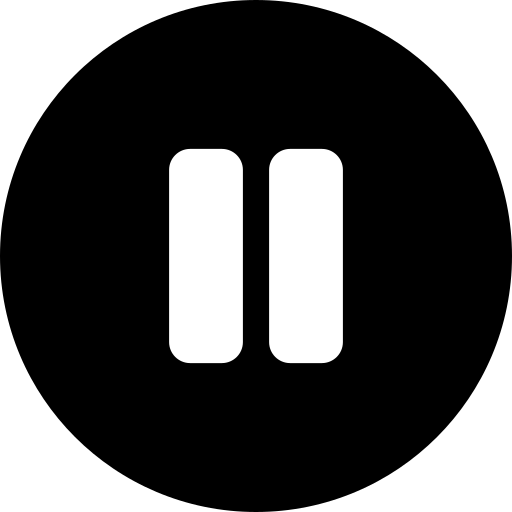
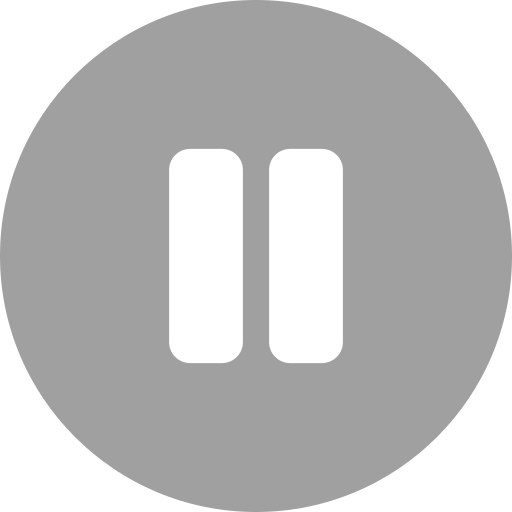
홈화면 배경동영상 재생/일시정지 버튼 색 반전

diff --git a/css/home.css b/css/home.css
@@ -76,15 +76,24 @@ body {
 }
 
 .header {
+    position: fixed;
+    opacity: 0.5;
     background-color: black;
     height: 10vh;
     width: 100%;
     display : flex;
     text-align: center;
-    justify-content: space-between;
+    justify-content: center;
     padding: 0;
     margin: 0;
     border-bottom: 2px solid grey;
+}
+
+.header-inner {
+    display: flex;
+    width: 80%;
+    align-items: center;
+    justify-content: space-between;
 }
 
 .header-logo {
@@ -93,15 +102,16 @@ body {
     align-items: center;
     justify-content: center;
     flex-basis: 30%;
-    flex-shrink: 0;
-    flex-grow: 0;
+    margin: 0;
+    padding: 0;
 }
 
 .header-logo img {
     width : 50px;
     height: auto;
     /* background-color: purple; */
-    margin-left: 10px;
+    margin: 0;
+    padding: 0;
 }
 
 .header-logo span {
@@ -113,23 +123,22 @@ body {
 
 .header-nav {
     /* background-color: blue; */
-    justify-content: center;
+    justify-content: flex-end;
     display: flex;
     flex-basis: 70%;
-    flex-shrink: 0;
-    flex-grow: 0;
+    
+    margin: 0;
+    padding: 0;
 }
 
 .nav-list {
     display: flex;
     justify-content: center;
     align-items: center;
-    /* background-color: white; */
+    /* background-color: grey; */
     list-style: none;
-    flex-basis: 70%;
-    flex-shrink: 0;
-    flex-grow: 0;
-    
+    margin: 0;
+    padding: 0;
 }
 
 .nav-item {
@@ -149,7 +158,7 @@ body {
 }
 
 .bg-video{
-    height: 90vh;
+    height: 100vh;
     width: 100%;
     display: flex;   
     justify-content: center;
@@ -166,6 +175,7 @@ body {
 
 .intro-overlay {
     position: absolute;
+    bottom: 10px;
     display: flex;
     flex-direction: column;
     justify-content: center;
@@ -283,11 +293,13 @@ body {
 
 .bg-video-pause {
     background-color: rgba(0, 0, 0, 0);
+
     border: none;
     position: relative;
     width: 40px;
     height: 40px;
-    top: 110px;
+
+    bottom: 10px;
     left: 670px;
 }
 

diff --git a/home.html b/home.html
@@ -9,19 +9,21 @@
 </head>
 <body>
     <header class="header">
-        <div class="header-logo">
-            <img src="/img/c7f5f2369a032c81-sticker.png">
-            <span>Walker's Devlog</span>
-        </div>
-        <div class="header-nav">
-            <ul class="nav-list">
-                <li class="nav-item"><a href="#">Home</li>
-                <li class="nav-item"><a href="#">About me</li>
-                <li class="nav-item"><a href="#">Skills</li>
-                <li class="nav-item"><a href="#">Projects</li>
-                <li class="nav-item"><a href="#">Career</li>
-                <li class="nav-item"><a href="#">Devlog</li>
-            </ul>
+        <div class="header-inner">
+            <div class="header-logo">
+                <img src="/img/c7f5f2369a032c81-sticker.png">
+                <span>Walker's Devlog</span>
+            </div>
+            <div class="header-nav">
+                <ul class="nav-list">
+                    <li class="nav-item"><a href="#">Home</li>
+                    <li class="nav-item"><a href="#">About me</li>
+                    <li class="nav-item"><a href="#">Skills</li>
+                    <li class="nav-item"><a href="#">Projects</li>
+                    <li class="nav-item"><a href="#">Career</li>
+                    <li class="nav-item"><a href="#">Devlog</li>
+                </ul>
+            </div>
         </div>
     </header>
     <main class="main">
